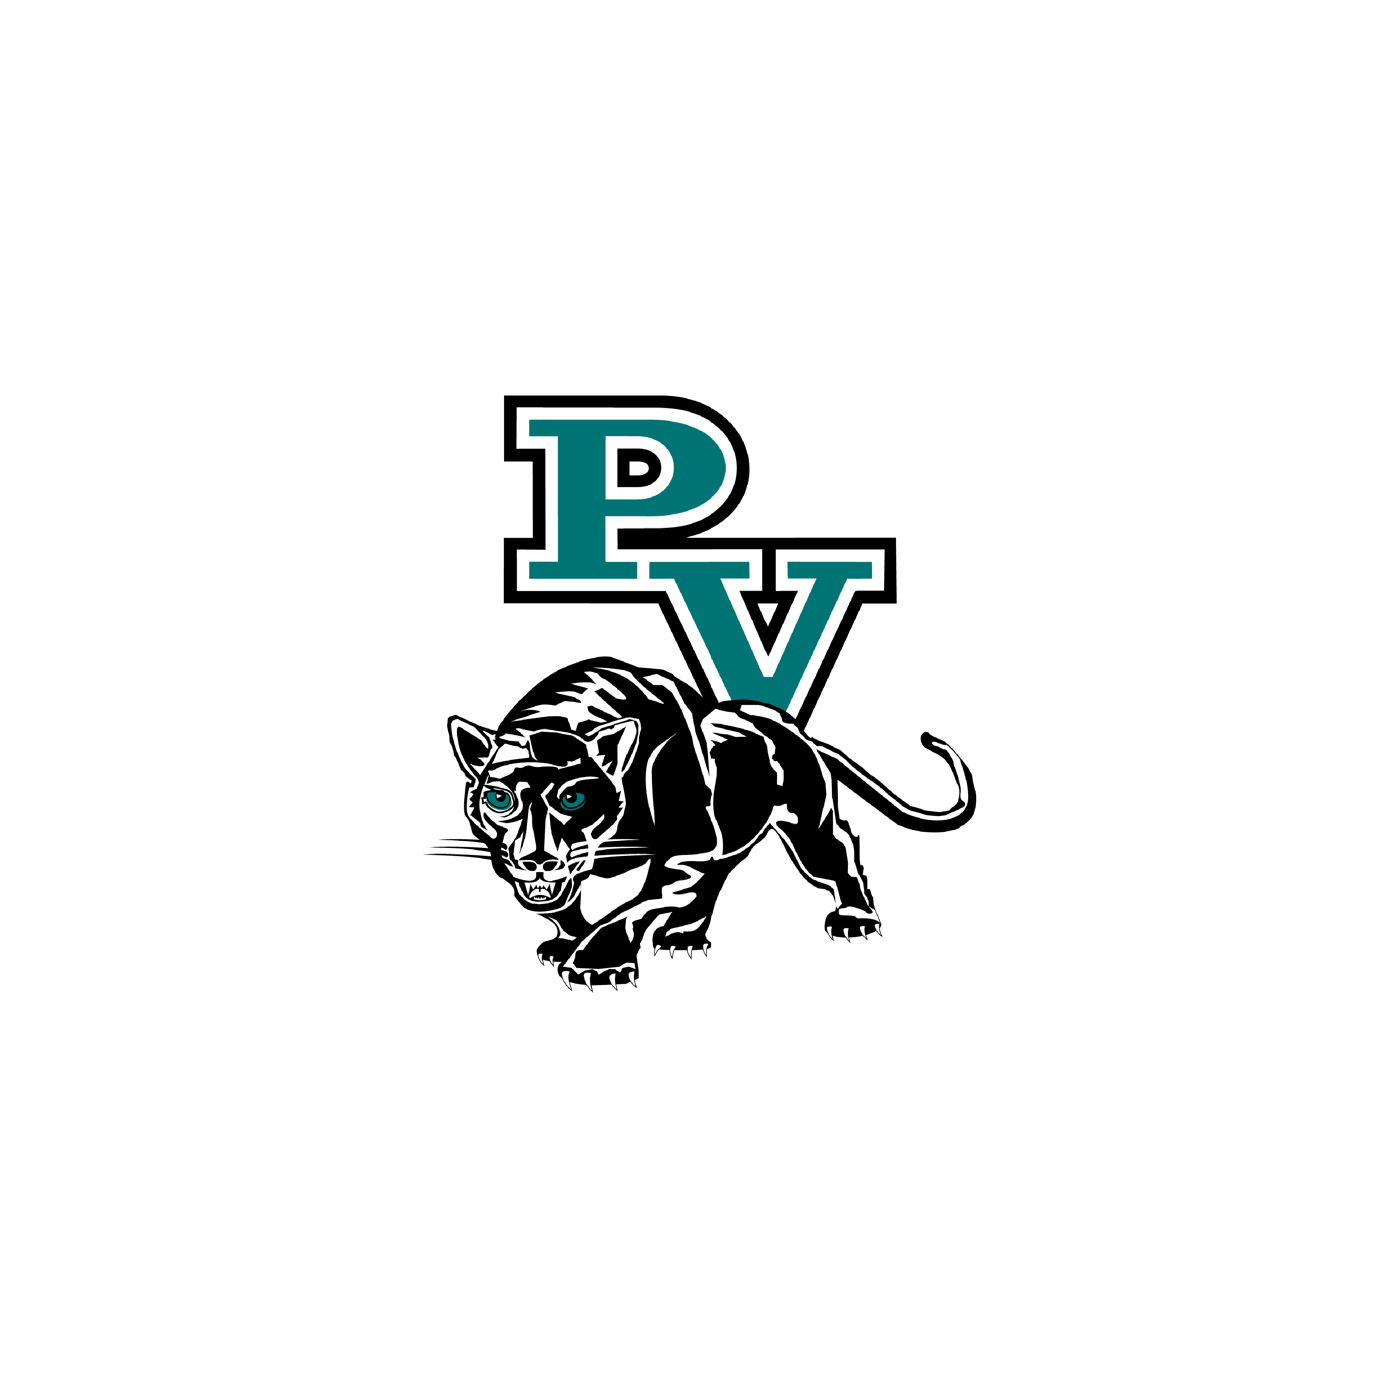
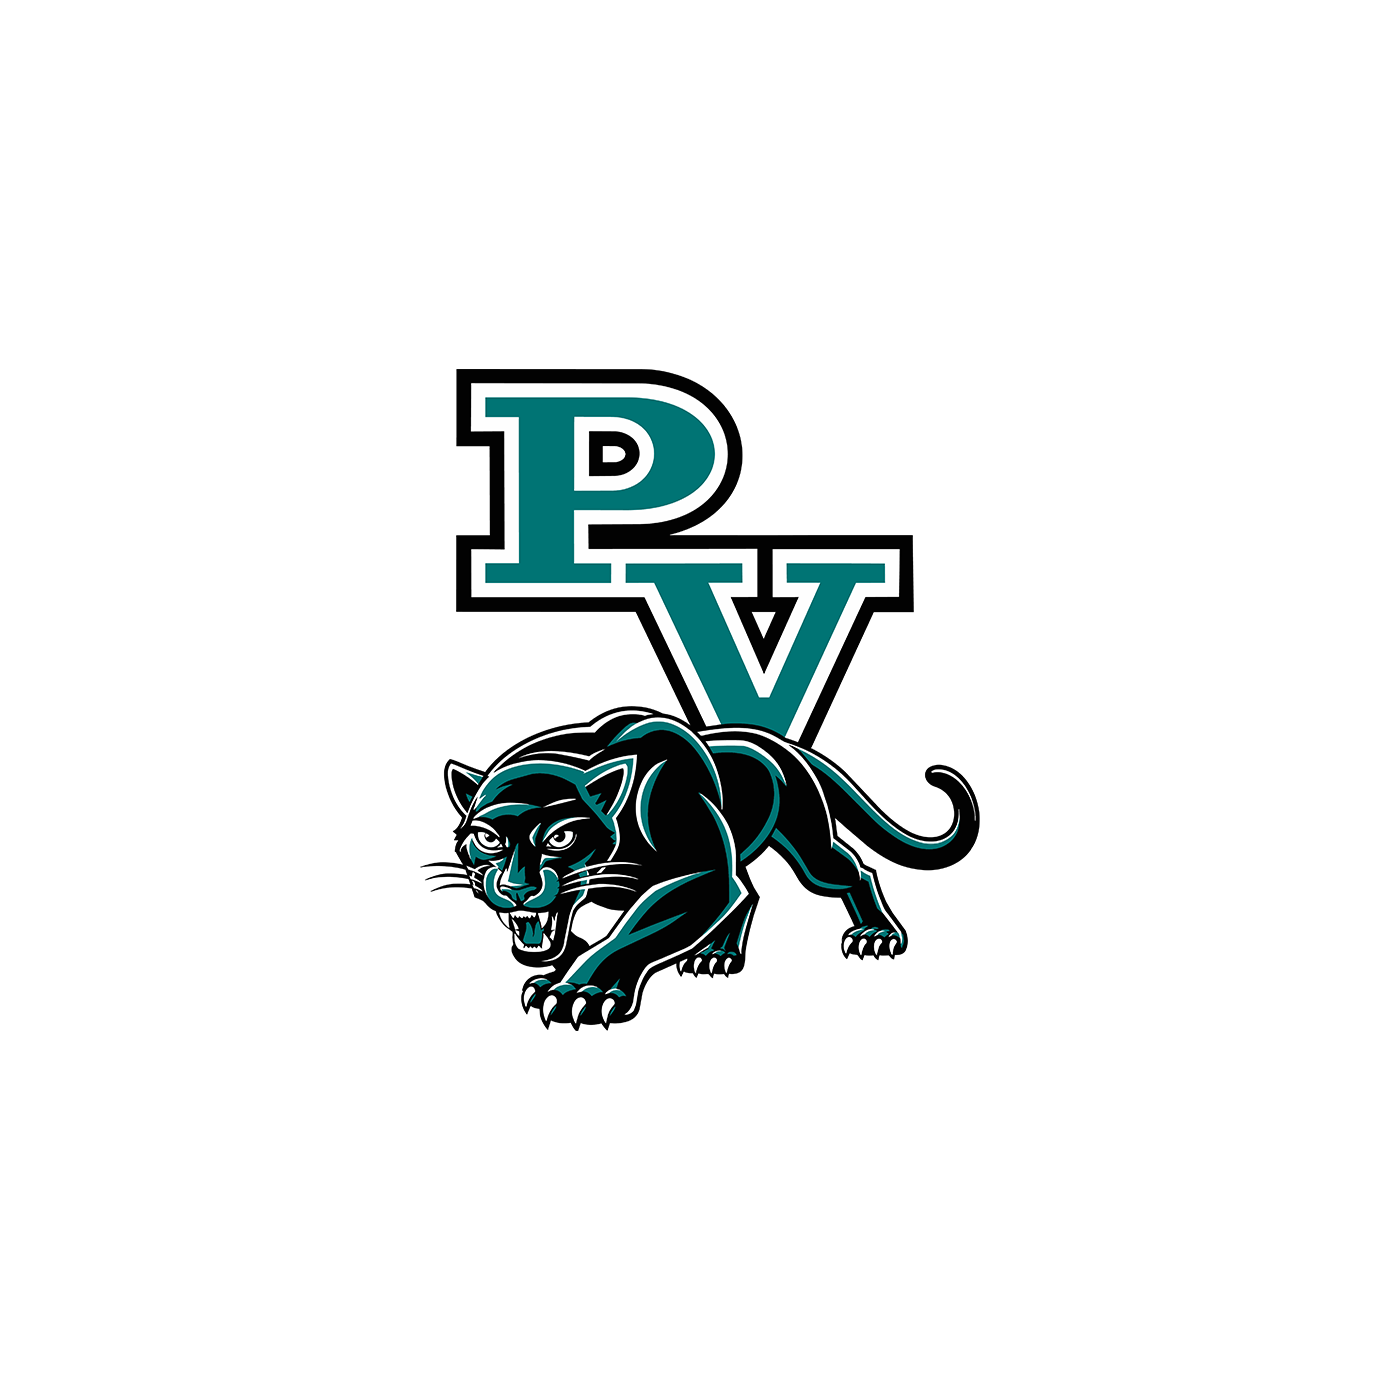
Branding Intro: refresh panther art and fade watermark deeper
- Chris updated PV_Panther_Watermark.png with a re-centered /
  redrawn panther (still 1400x1400 RGBA, now 150KB).
- Push the overlay alpha up ~3 points so the panther reads as
  a true watermark instead of a visible image:
    0.94 -> 0.97 (top + bottom of gradient)
    0.90 -> 0.94 (middle of gradient)
  Net: about 30% drop in panther visibility (from ~6% peeking
  through to ~3-4%). Subtle texture behind cards, no longer
  competes with content.

Changed region(s): [[0.3071, 0.2457, 0.7064, 0.7371]]

diff --git a/curriculum/shared/branding-introduction.html b/curriculum/shared/branding-introduction.html
@@ -51,7 +51,7 @@
   <div class="silva-page">
   <div id="silva-module-content">
 
-  <div id="top" style="width:100%;margin:0 auto;font-family:Arial,sans-serif;color:#ffffff;background-color:#080808;background-image:linear-gradient(180deg,rgba(8,8,8,0.94) 0%,rgba(0,56,56,0.90) 50%,rgba(8,8,8,0.94) 100%),url('https://raw.githubusercontent.com/creativesilva/creativesilva-site/main/assets/PV_Panther_Watermark.png');background-position:center top,center 200px;background-repeat:no-repeat,no-repeat;border-radius:30px;overflow:hidden;">
+  <div id="top" style="width:100%;margin:0 auto;font-family:Arial,sans-serif;color:#ffffff;background-color:#080808;background-image:linear-gradient(180deg,rgba(8,8,8,0.97) 0%,rgba(0,56,56,0.94) 50%,rgba(8,8,8,0.97) 100%),url('https://raw.githubusercontent.com/creativesilva/creativesilva-site/main/assets/PV_Panther_Watermark.png');background-position:center top,center 200px;background-repeat:no-repeat,no-repeat;border-radius:30px;overflow:hidden;">
 
     <!-- ════════════════════════ ENGLISH ════════════════════════ -->
     <div style="padding:28px 28px 40px;">
